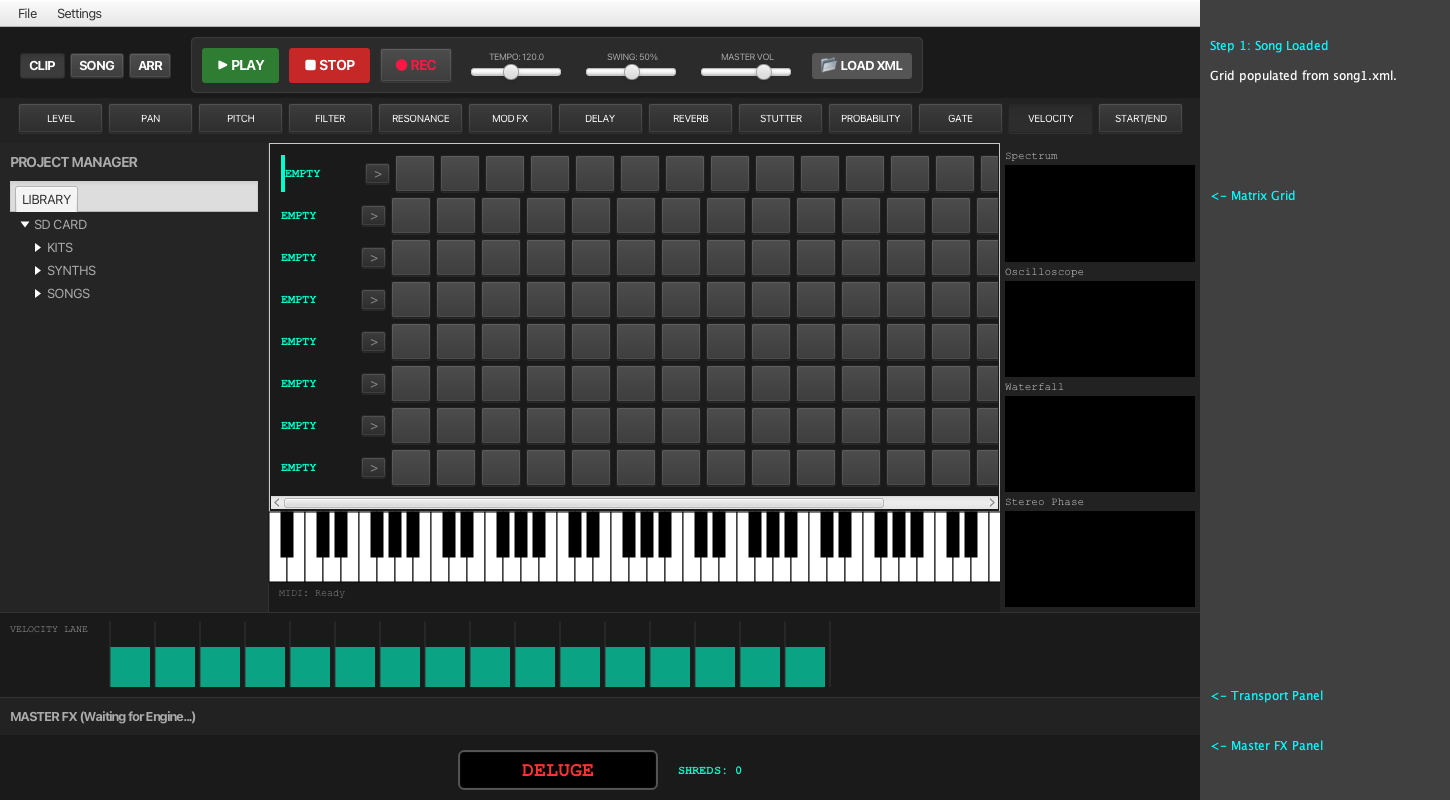
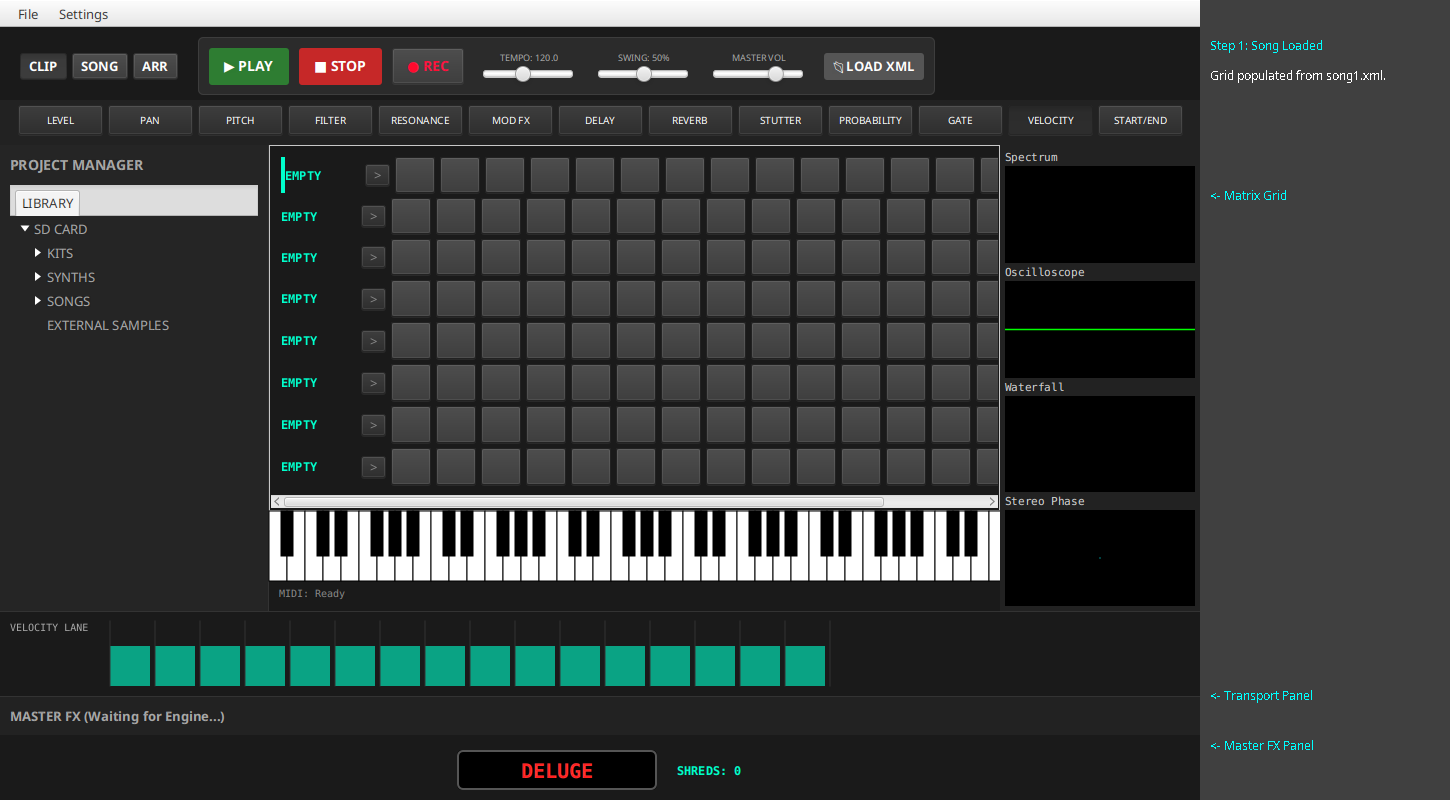
Update screenshots with grid changes after fixing race condition.

diff --git a/deluge/src/test/java/org/chuck/deluge/ui/ScreenshotGenerator.java b/deluge/src/test/java/org/chuck/deluge/ui/ScreenshotGenerator.java
@@ -20,73 +20,99 @@ import org.junit.jupiter.api.Test;
 
 public class ScreenshotGenerator {
 
+  private ChuckVM vm;
+  private BridgeContract bridge;
+  private MidiService midiService;
+  private DelugeMainPanel mainPanel;
+  private Scene scene;
+  private WritableImage currentSnapshot;
+
   @Test
   public void testGenerateScreenshots() throws Exception {
     System.setProperty("chuck.audio.dummy", "true");
     System.setProperty("deluge.tracks", "8");
     
-    CountDownLatch latch = new CountDownLatch(1);
+    // Start JavaFX
+    CountDownLatch startupLatch = new CountDownLatch(1);
+    Platform.startup(startupLatch::countDown);
+    startupLatch.await();
     
-    Platform.startup(() -> {
-      try {
-        ChuckVM vm = new ChuckVM(44100, 2);
-        BridgeContract bridge = new BridgeContract();
-        bridge.register(vm);
-        
-        MidiInputRouter router = new MidiInputRouter(vm, bridge);
-        MidiService midiService = new MidiService(vm, bridge, router);
-        
-        DelugeMainPanel mainPanel = new DelugeMainPanel(vm, bridge, null, midiService);
-        Scene scene = new Scene(mainPanel, 1200, 800);
-        
-        // Step 0: Start
-        WritableImage img0 = scene.snapshot(null);
-        saveSnapshot(img0, "../docs/step0_start.png", "Step 0: Initial State", "Empty grid on startup.");
-        
-        // Step 1: Load Song
-        try (java.io.InputStream is = getClass().getResourceAsStream("/SONGS/song1.xml")) {
-            if (is != null) {
-                org.chuck.deluge.model.ProjectModel loadedProject =
-                    org.chuck.deluge.xml.DelugeXmlParser.parseSong(is, "song1");
-                mainPanel.getSongPanel().setProjectModel(loadedProject);
-                mainPanel.getSongPanel().refresh();
-            }
+    // Init UI on FX thread
+    runAndWait(() -> {
+      vm = new ChuckVM(44100, 2);
+      bridge = new BridgeContract();
+      bridge.register(vm);
+      
+      MidiInputRouter router = new MidiInputRouter(vm, bridge);
+      midiService = new MidiService(vm, bridge, router);
+      
+      mainPanel = new DelugeMainPanel(vm, bridge, null, midiService);
+      scene = new Scene(mainPanel, 1200, 800);
+    });
+    
+    // Step 0: Start
+    runAndWait(() -> currentSnapshot = scene.snapshot(null));
+    saveSnapshot(currentSnapshot, "../docs/step0_start.png", "Step 0: Initial State", "Empty grid on startup.");
+    
+    // Step 1: Load Song
+    runAndWait(() -> {
+      try (java.io.InputStream is = getClass().getResourceAsStream("/SONGS/song1.xml")) {
+        if (is != null) {
+          org.chuck.deluge.model.ProjectModel loadedProject =
+              org.chuck.deluge.xml.DelugeXmlParser.parseSong(is, "song1");
+          mainPanel.getSongPanel().setProjectModel(loadedProject);
+          mainPanel.getSongPanel().refresh();
         }
-        WritableImage img1 = scene.snapshot(null);
-        saveSnapshot(img1, "../docs/step1_loaded.png", "Step 1: Song Loaded", "Grid populated from song1.xml.");
-        
-        // Step 2: Edit Cells
-        bridge.setStep(0, 0, true);
-        bridge.setStep(0, 4, true);
-        bridge.setStep(0, 8, true);
-        bridge.setStep(0, 12, true);
-        WritableImage img2 = scene.snapshot(null);
-        saveSnapshot(img2, "../docs/step2_edited.png", "Step 2: Cells Edited", "Toggled steps 0, 4, 8, 12 on track 0.");
-        
-        // Step 3: Play
-        vm.setGlobalInt(BridgeContract.G_PLAY, 1L);
-        WritableImage img3 = scene.snapshot(null);
-        saveSnapshot(img3, "../docs/step3_playing.png", "Step 3: Playing", "Transport in Play state.");
-        
-        // Step 4: Record
-        midiService.setRecording(true);
-        WritableImage img4 = scene.snapshot(null);
-        saveSnapshot(img4, "../docs/step4_recording.png", "Step 4: Recording", "Transport in Record state.");
-        
-        // Take Preferences Dialog snapshot
-        org.chuck.deluge.ui.popover.PreferencesDialog preferencesDialog = 
-            new org.chuck.deluge.ui.popover.PreferencesDialog(midiService);
-        javafx.scene.control.DialogPane dialogPane = preferencesDialog.getDialogPane();
-        WritableImage dialogImage = dialogPane.snapshot(null, null);
-        saveSnapshot(dialogImage, "../docs/preferences_dialog_annotated.png", "Preferences", "Application settings.");
-        
-        latch.countDown();
       } catch (Exception e) {
         e.printStackTrace();
       }
     });
     
-    latch.await();
+    // Wait for refresh to complete in next pulse!
+    runAndWait(() -> currentSnapshot = scene.snapshot(null));
+    saveSnapshot(currentSnapshot, "../docs/step1_loaded.png", "Step 1: Song Loaded", "Grid populated from song1.xml.");
+    
+    // Step 2: Edit Cells
+    runAndWait(() -> {
+      bridge.setStep(0, 0, true);
+      bridge.setStep(0, 4, true);
+      bridge.setStep(0, 8, true);
+      bridge.setStep(0, 12, true);
+    });
+    
+    runAndWait(() -> currentSnapshot = scene.snapshot(null));
+    saveSnapshot(currentSnapshot, "../docs/step2_edited.png", "Step 2: Cells Edited", "Toggled steps 0, 4, 8, 12 on track 0.");
+    
+    // Step 3: Play
+    runAndWait(() -> vm.setGlobalInt(BridgeContract.G_PLAY, 1L));
+    runAndWait(() -> currentSnapshot = scene.snapshot(null));
+    saveSnapshot(currentSnapshot, "../docs/step3_playing.png", "Step 3: Playing", "Transport in Play state.");
+    
+    // Step 4: Record
+    runAndWait(() -> midiService.setRecording(true));
+    runAndWait(() -> currentSnapshot = scene.snapshot(null));
+    saveSnapshot(currentSnapshot, "../docs/step4_recording.png", "Step 4: Recording", "Transport in Record state.");
+    
+    // Take Preferences Dialog snapshot
+    runAndWait(() -> {
+      org.chuck.deluge.ui.popover.PreferencesDialog preferencesDialog = 
+          new org.chuck.deluge.ui.popover.PreferencesDialog(midiService);
+      javafx.scene.control.DialogPane dialogPane = preferencesDialog.getDialogPane();
+      currentSnapshot = dialogPane.snapshot(null, null);
+    });
+    saveSnapshot(currentSnapshot, "../docs/preferences_dialog_annotated.png", "Preferences", "Application settings.");
+  }
+  
+  private void runAndWait(Runnable r) throws Exception {
+    CountDownLatch l = new CountDownLatch(1);
+    Platform.runLater(() -> {
+      try {
+        r.run();
+      } finally {
+        l.countDown();
+      }
+    });
+    l.await();
   }
   
   private void saveSnapshot(WritableImage image, String path, String title, String description) throws Exception {
@@ -100,7 +126,6 @@ public class ScreenshotGenerator {
       }
     }
     
-    // Expand canvas for annotations
     int margin = 250;
     BufferedImage annotated = new BufferedImage(width + margin, height, BufferedImage.TYPE_INT_ARGB);
     Graphics2D g = annotated.createGraphics();
@@ -109,7 +134,6 @@ public class ScreenshotGenerator {
     g.fillRect(0, 0, width + margin, height);
     g.drawImage(bImage, 0, 0, null);
     
-    // Draw annotations
     g.setColor(Color.CYAN);
     g.drawString(title, width + 10, 50);
     g.setColor(Color.WHITE);
